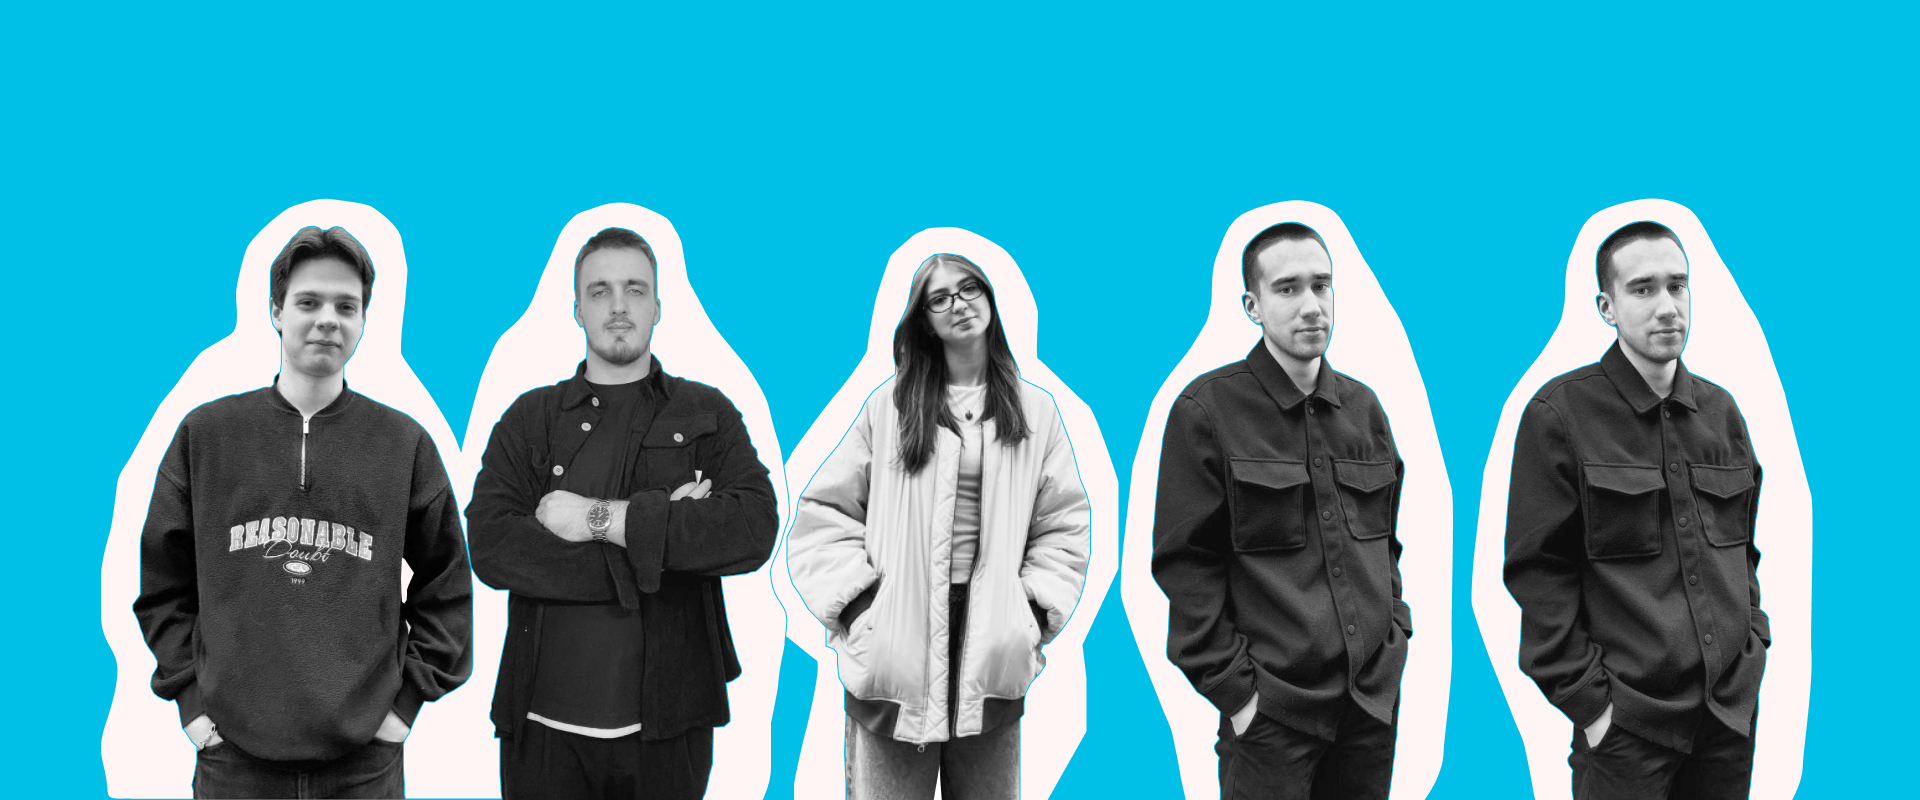
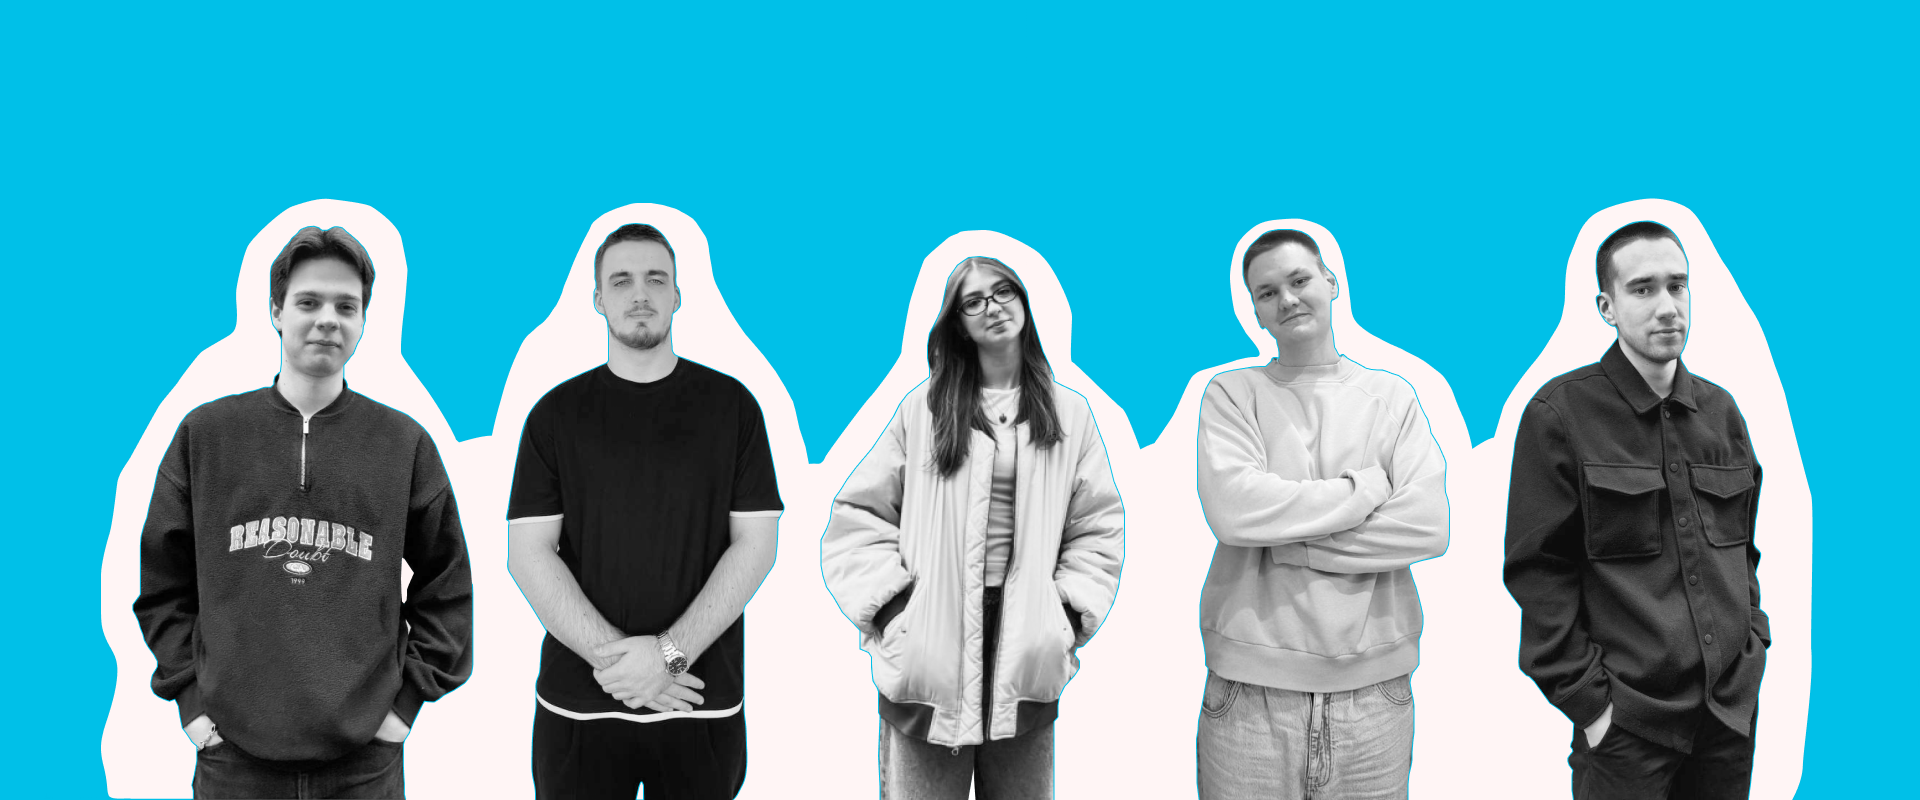
Исправленны ошибки при отображениии hero

Changed region(s): [[0.2188, 0.25, 0.8125, 1.0]]

diff --git a/frontend/css/team.css b/frontend/css/team.css
@@ -29,7 +29,7 @@
 }
 
 .group-frontend {
-  left: 50%;
+  left: 51%;
   transform: translateX(-50%);
 }
 
@@ -142,13 +142,13 @@
 
 #arrow-egor{
     width: 100px;
-    height: 70px;
+    height: 65px;
     margin-top: 5px;
     transform: rotate(25deg);
 }
 
 .group-frontend #vlada{
-    left: 50%;
+    left: 55%;
 }
 
 #star{
@@ -187,8 +187,8 @@
 }
 
 #arrow-danya {
-    width: 80px;
-    height: 70px;
+    width: 100px;
+    height: 90px;
     margin-top: 0;
     margin-left: -50px;
 }
